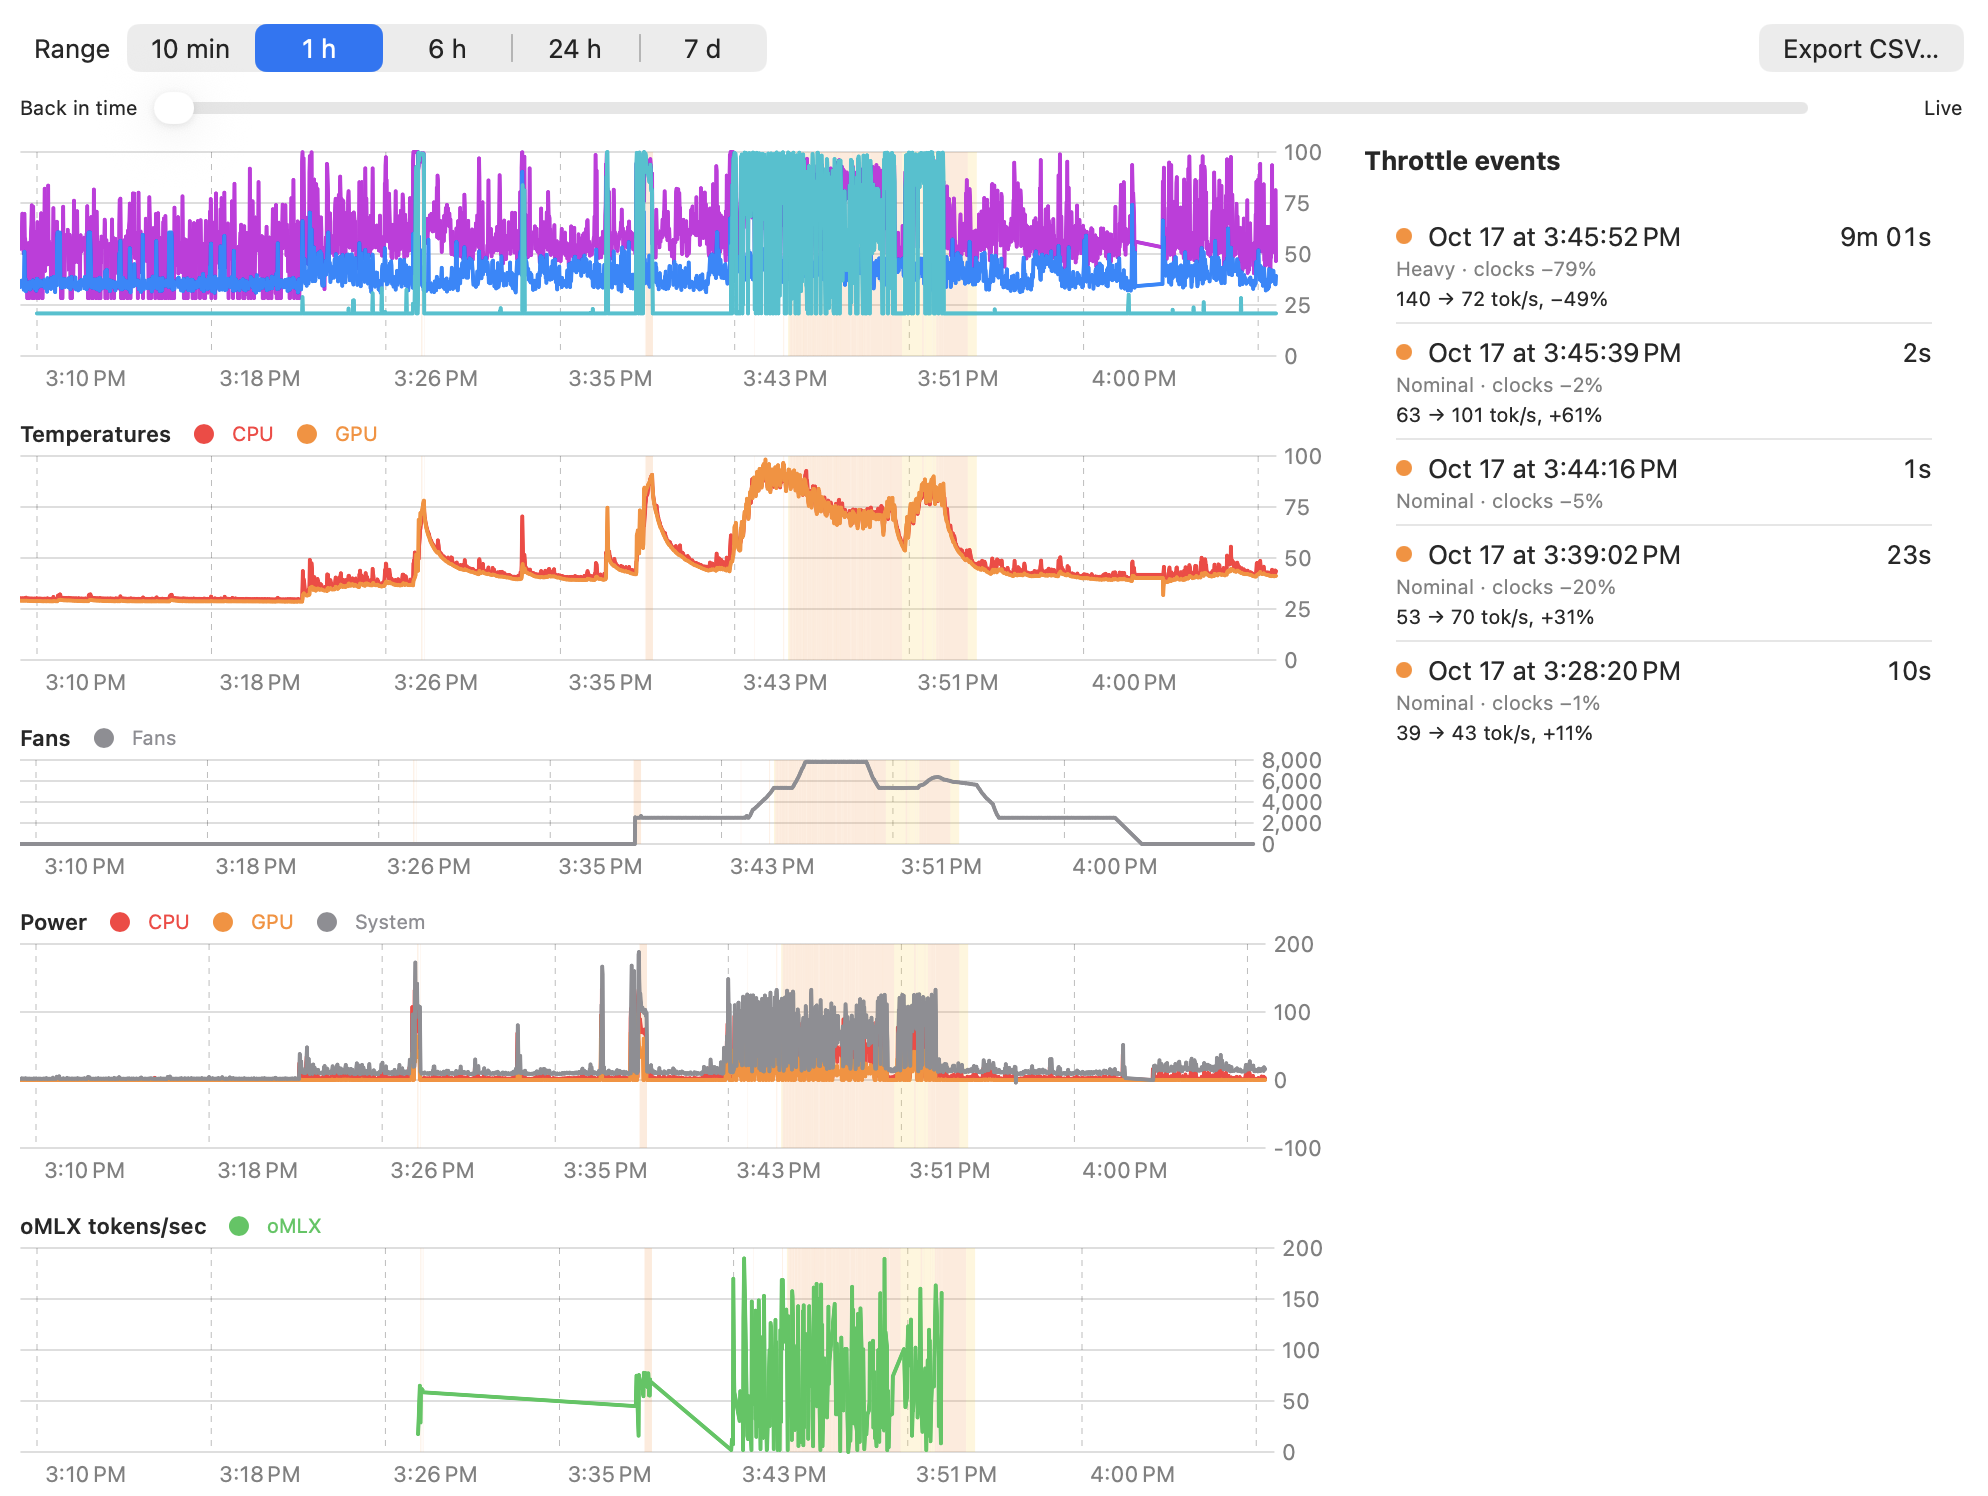
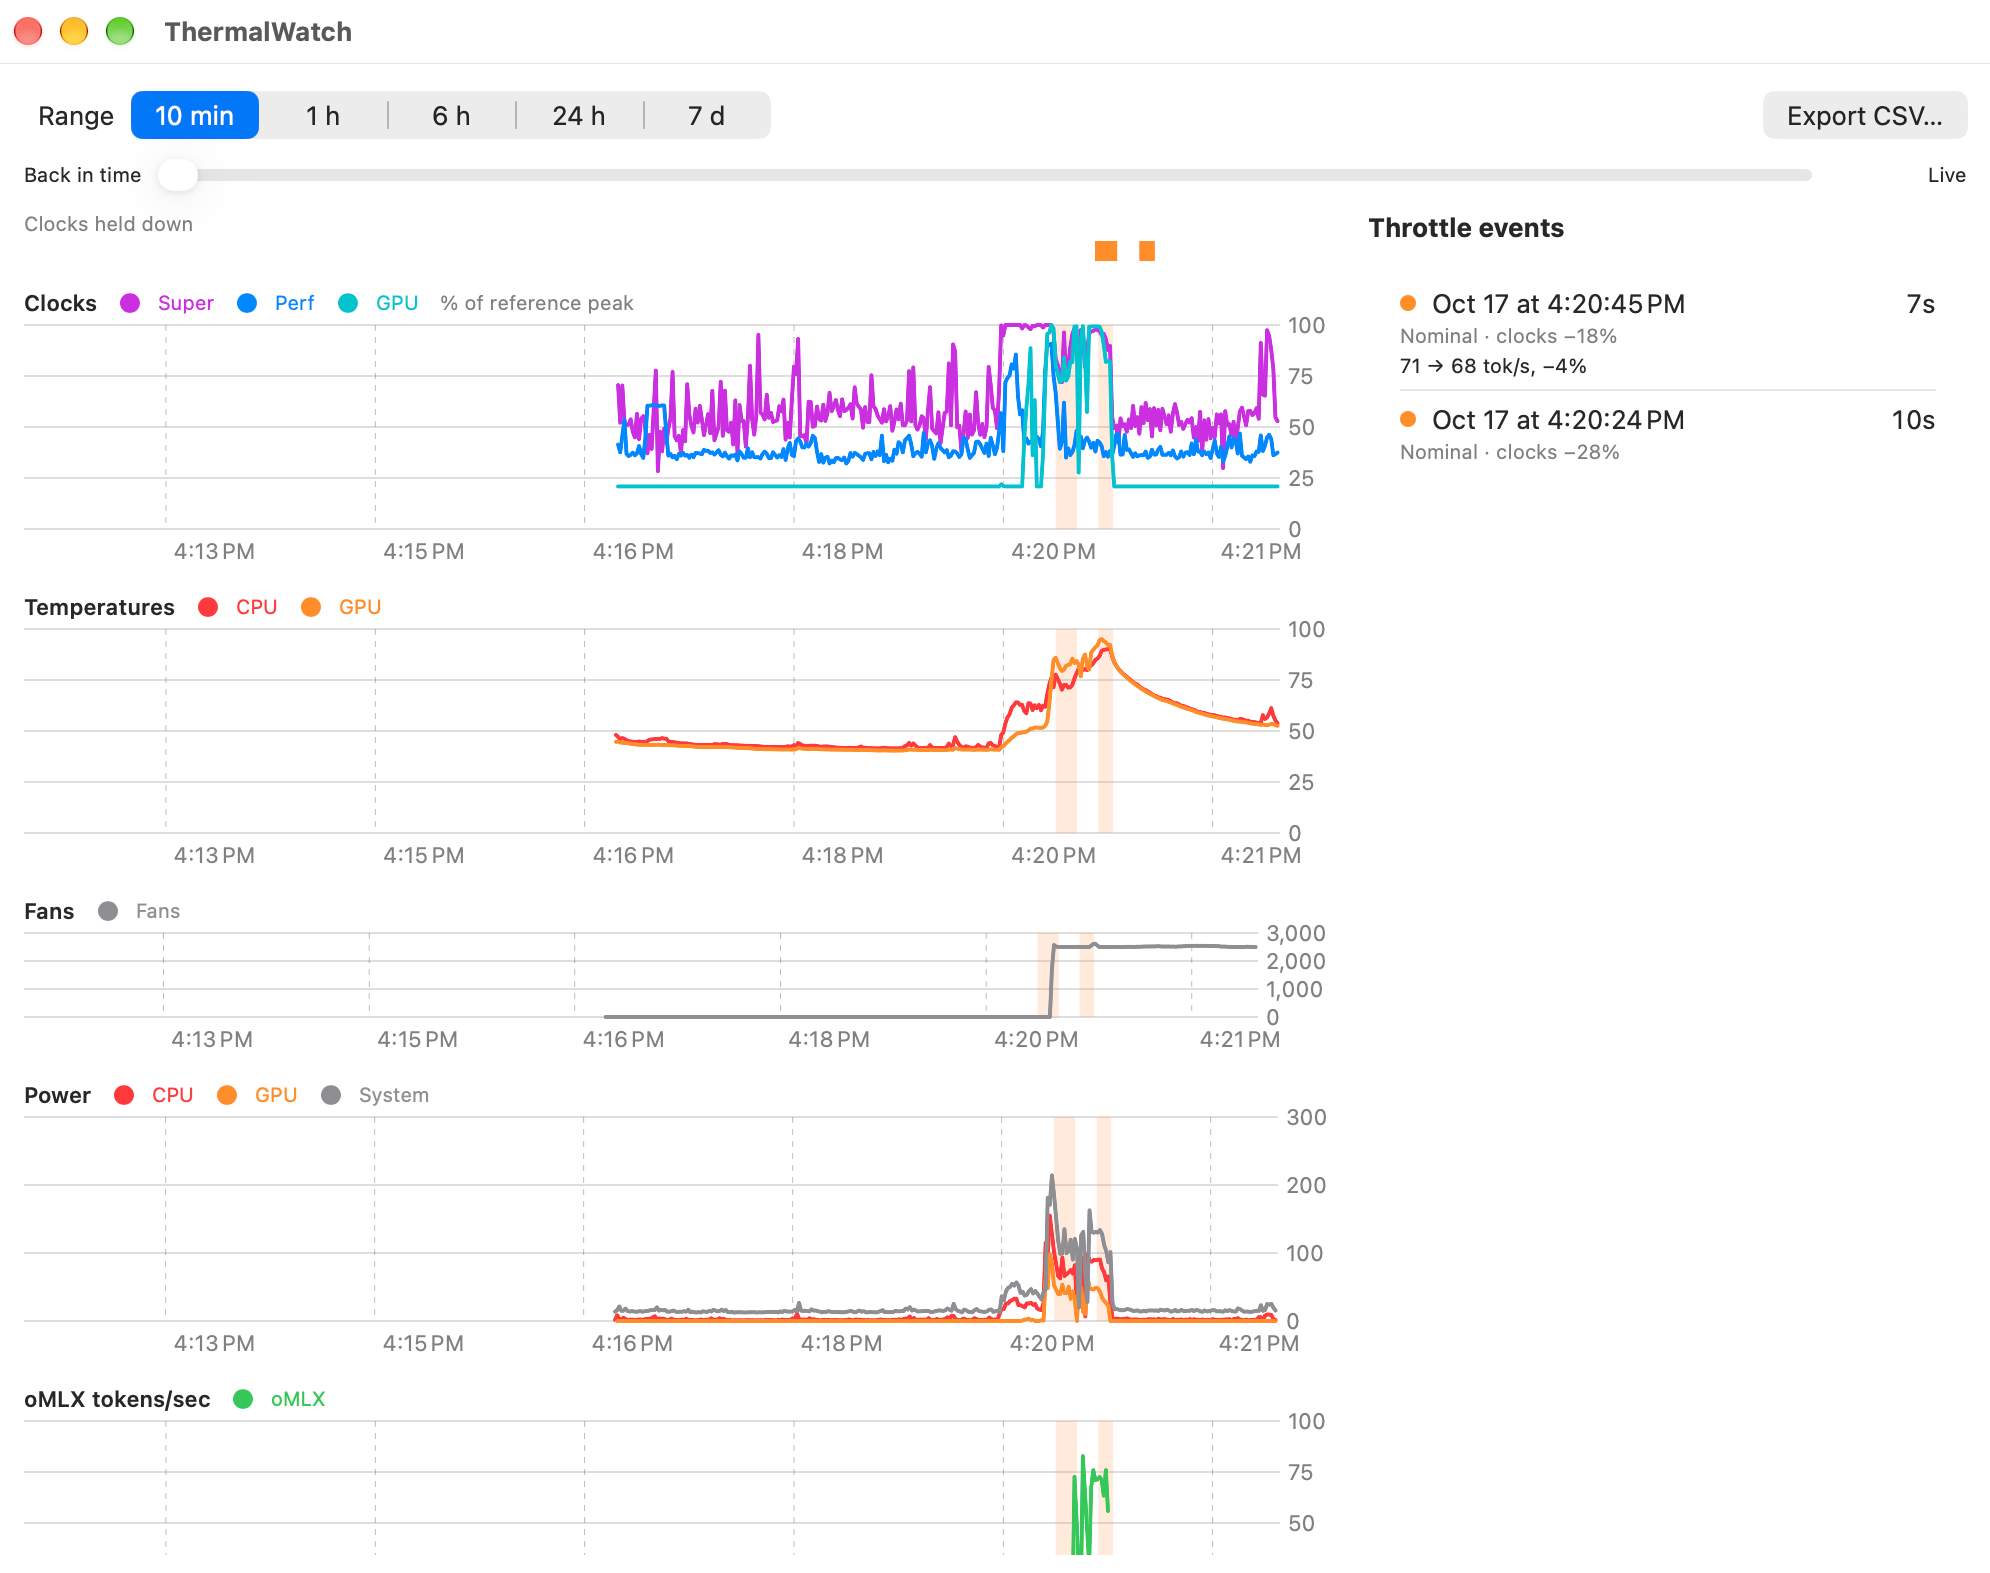
docs: refresh README screenshots after the popover and GPU fixes
Claude-Session: https://claude.ai/code/session_01CAkB4LKRVB3HEQACFmxDog

diff --git a/README.md b/README.md
@@ -8,13 +8,13 @@ can overlay tokens/sec from a local [oMLX](https://github.com/jundot/omlx) serve
 
 Everything runs locally. No `sudo`, no helper daemon, no network access beyond an optional loopback call to oMLX.
 
-<img src="docs/images/popover.png" width="330" alt="ThermalWatch menu-bar popover showing state Cool, nominal pressure, Super, Perf and GPU clocks as a share of peak, temperatures, fan speed, power, oMLX status and time throttled today">
+<img src="docs/images/popover.png" width="386" alt="ThermalWatch menu-bar popover showing state Cool, nominal pressure, Super, Perf and GPU clocks as a share of peak, temperatures, fan speed, power, oMLX status and time throttled today">
 
 *The menu-bar popover: current state, clock speed of each part as a share of peak, temperatures, fans, power and oMLX status.*
 
-![ThermalWatch history window showing one hour of clocks, temperatures, fans, power and oMLX tokens/sec, with throttled stretches shaded orange and a list of throttle events](docs/images/history-window.png)
+![ThermalWatch history window showing ten minutes of clocks, temperatures, fans, power and oMLX tokens/sec, with throttled stretches shaded orange and a list of throttle events](docs/images/history-window.png)
 
-*One hour of history on an M5 Max. The shaded stretch is a 9-minute throttle event at Heavy pressure, during which oMLX fell from 140 to 72 tokens/sec.*
+*Ten minutes of history on an M5 Max. A burst of heavy work at 4:20 PM pushed both dies to about 95 °C and caused two short throttle events, shaded on every chart and listed on the right.*
 
 ## Features
 
